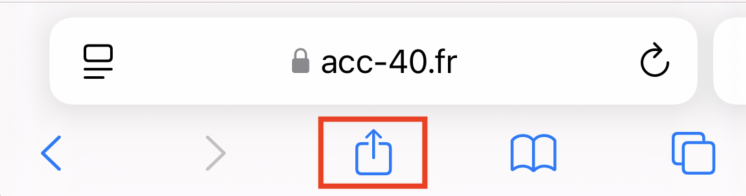
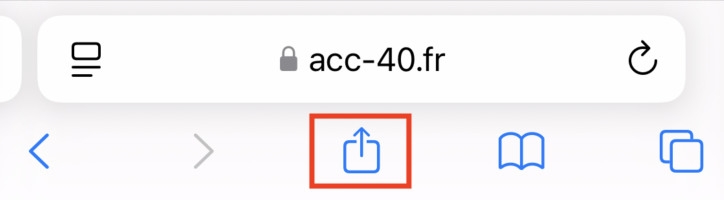
feat(web): add installation instructions

diff --git a/apps/web/src/components/InstallExplanation.tsx b/apps/web/src/components/InstallExplanation.tsx
@@ -1,9 +1,13 @@
+import { Card } from '@prevezic/ui/card';
 import {
   Dialog,
   DialogContent,
   DialogHeader,
   DialogTitle,
 } from '@prevezic/ui/dialog';
+import { useEffect, useState } from 'react';
+
+type Platform = 'ios' | 'android' | 'desktop';
 
 export function InstallExplanation({
   open,
@@ -12,12 +16,199 @@ export function InstallExplanation({
   open: boolean;
   onOpenChange: (open: boolean) => void;
 }) {
+  const [platform, setPlatform] = useState<Platform>('desktop');
+
+  useEffect(() => {
+    const userAgent = navigator.userAgent;
+    if (/iPad|iPhone|iPod/.test(userAgent)) {
+      setPlatform('ios');
+    } else if (/Android/.test(userAgent)) {
+      setPlatform('android');
+    } else {
+      setPlatform('desktop');
+    }
+  }, []);
+
+  const renderIOSInstructions = () => (
+    <div className='space-y-6'>
+      <div className='text-center'>
+        <p className='text-sm text-gray-600 mb-4'>
+          Installez l'application pour une meilleure expérience
+        </p>
+      </div>
+
+      <div className='space-y-4'>
+        <Card className='p-4'>
+          <div className='flex items-start space-x-3'>
+            <div className='flex-shrink-0 w-8 h-8 bg-tertiary text-white rounded-full flex items-center justify-center text-sm font-bold'>
+              1
+            </div>
+            <div className='flex-1'>
+              <p className='text-sm font-medium'>Ouvrez le menu de partage</p>
+              <p className='text-xs text-gray-600 mt-1'>
+                Appuyez sur l'icône de partage en bas du navigateur
+              </p>
+            </div>
+          </div>
+          <div className='mt-3 rounded-lg overflow-hidden'>
+            <img
+              src='/ios-install-1.png'
+              alt='Safari share button'
+              className='w-full h-auto'
+            />
+          </div>
+        </Card>
+
+        <Card className='p-4'>
+          <div className='flex items-start space-x-3'>
+            <div className='flex-shrink-0 w-8 h-8 bg-tertiary text-white rounded-full flex items-center justify-center text-sm font-bold'>
+              2
+            </div>
+            <div className='flex-1'>
+              <p className='text-sm font-medium'>Ajoutez à l'écran d'accueil</p>
+              <p className='text-xs text-gray-600 mt-1'>
+                Sélectionnez "Sur l'écran d'accueil" dans le menu
+              </p>
+            </div>
+          </div>
+          <div className='mt-3 rounded-lg overflow-hidden'>
+            <img
+              src='/ios-install-2.png'
+              alt='Add to home screen option'
+              className='w-full h-auto'
+            />
+          </div>
+        </Card>
+
+        <Card className='p-4'>
+          <div className='flex items-start space-x-3'>
+            <div className='flex-shrink-0 w-8 h-8 bg-tertiary text-white rounded-full flex items-center justify-center text-sm font-bold'>
+              3
+            </div>
+            <div className='flex-1'>
+              <p className='text-sm font-medium'>Confirmez l'installation</p>
+              <p className='text-xs text-gray-600 mt-1'>
+                Appuyez sur "Ajouter" pour installer l'application
+              </p>
+            </div>
+          </div>
+        </Card>
+      </div>
+    </div>
+  );
+
+  const renderAndroidInstructions = () => (
+    <div className='space-y-6'>
+      <div className='text-center'>
+        <p className='text-sm text-gray-600 mb-4'>
+          Installez l'application pour une meilleure expérience
+        </p>
+      </div>
+
+      <div className='space-y-4'>
+        <Card className='p-4'>
+          <div className='flex items-start space-x-3'>
+            <div className='flex-shrink-0 w-8 h-8 bg-tertiary text-white rounded-full flex items-center justify-center text-sm font-bold'>
+              1
+            </div>
+            <div className='flex-1'>
+              <p className='text-sm font-medium'>
+                Ouvrez le menu du navigateur
+              </p>
+              <p className='text-xs text-gray-600 mt-1'>
+                Appuyez sur les trois points (⋮) en haut à droite
+              </p>
+            </div>
+          </div>
+        </Card>
+
+        <Card className='p-4'>
+          <div className='flex items-start space-x-3'>
+            <div className='flex-shrink-0 w-8 h-8 bg-tertiary text-white rounded-full flex items-center justify-center text-sm font-bold'>
+              2
+            </div>
+            <div className='flex-1'>
+              <p className='text-sm font-medium'>Ajoutez à l'écran d'accueil</p>
+              <p className='text-xs text-gray-600 mt-1'>
+                Sélectionnez "Ajouter à l'écran d'accueil" ou "Installer
+                l'application"
+              </p>
+            </div>
+          </div>
+        </Card>
+
+        <Card className='p-4'>
+          <div className='flex items-start space-x-3'>
+            <div className='flex-shrink-0 w-8 h-8 bg-tertiary text-white rounded-full flex items-center justify-center text-sm font-bold'>
+              3
+            </div>
+            <div className='flex-1'>
+              <p className='text-sm font-medium'>Confirmez l'installation</p>
+              <p className='text-xs text-gray-600 mt-1'>
+                Appuyez sur "Installer" pour ajouter l'application
+              </p>
+            </div>
+          </div>
+        </Card>
+      </div>
+    </div>
+  );
+
+  const renderDesktopInstructions = () => (
+    <div className='space-y-6'>
+      <div className='text-center'>
+        <h3 className='text-lg font-semibold mb-2'>Sur ordinateur</h3>
+        <p className='text-sm text-gray-600 mb-4'>
+          Vous pouvez installer l'application sur votre bureau
+        </p>
+      </div>
+
+      <div className='space-y-4'>
+        <Card className='p-4'>
+          <div className='flex items-start space-x-3'>
+            <div className='flex-shrink-0 w-8 h-8 bg-purple-500 text-white rounded-full flex items-center justify-center text-sm font-bold'>
+              1
+            </div>
+            <div className='flex-1'>
+              <p className='text-sm font-medium'>
+                Cherchez l'icône d'installation
+              </p>
+              <p className='text-xs text-gray-600 mt-1'>
+                Regardez dans la barre d'adresse ou le menu du navigateur
+              </p>
+            </div>
+          </div>
+        </Card>
+
+        <Card className='p-4'>
+          <div className='flex items-start space-x-3'>
+            <div className='flex-shrink-0 w-8 h-8 bg-purple-500 text-white rounded-full flex items-center justify-center text-sm font-bold'>
+              2
+            </div>
+            <div className='flex-1'>
+              <p className='text-sm font-medium'>Installez l'application</p>
+              <p className='text-xs text-gray-600 mt-1'>
+                Cliquez sur "Installer" ou "Ajouter à l'écran d'accueil"
+              </p>
+            </div>
+          </div>
+        </Card>
+      </div>
+    </div>
+  );
+
   return (
     <Dialog open={open} onOpenChange={onOpenChange}>
       <DialogContent className='h-full max-w-full w-full rounded-none border-none shadow-none outline-none'>
         <DialogHeader>
           <DialogTitle>Installer l'application</DialogTitle>
         </DialogHeader>
+
+        <div className='mt-4 overflow-y-auto'>
+          {platform === 'ios' && renderIOSInstructions()}
+          {platform === 'android' && renderAndroidInstructions()}
+          {platform === 'desktop' && renderDesktopInstructions()}
+        </div>
       </DialogContent>
     </Dialog>
   );

diff --git a/packages/ui/src/style.css b/packages/ui/src/style.css
@@ -22,6 +22,8 @@
   --primary-foreground: oklch(1.0 0 0);
   --secondary: oklch(0.4866 0.0378 329.4179);
   --secondary-foreground: oklch(1.0 0 0);
+  --tertiary: rgb(130 82 73);
+  --tertiary-foreground: rgb(255 255 255);
   --muted: oklch(1.0 0 0);
   --muted-foreground: oklch(0.5716 0.018 335.3163);
   --accent: oklch(0.9174 0.0193 338.7372);
@@ -77,6 +79,8 @@
   --primary-foreground: oklch(0.3216 0.0911 323.9685);
   --secondary: oklch(0.832 0.0399 331.2117);
   --secondary-foreground: oklch(0.3152 0.0366 328.3534);
+  --tertiary: rgb(246 184 172);
+  --tertiary-foreground: rgb(76 37 30);
   --muted: oklch(0.3152 0.0366 328.3534);
   --muted-foreground: oklch(0.6567 0.0192 334.3626);
   --accent: oklch(0.3986 0.0178 329.4513);
@@ -130,6 +134,8 @@
   --color-primary-foreground: var(--primary-foreground);
   --color-secondary: var(--secondary);
   --color-secondary-foreground: var(--secondary-foreground);
+  --color-tertiary: var(--tertiary);
+  --color-tertiary-foreground: var(--tertiary-foreground);
   --color-muted: var(--muted);
   --color-muted-foreground: var(--muted-foreground);
   --color-accent: var(--accent);
